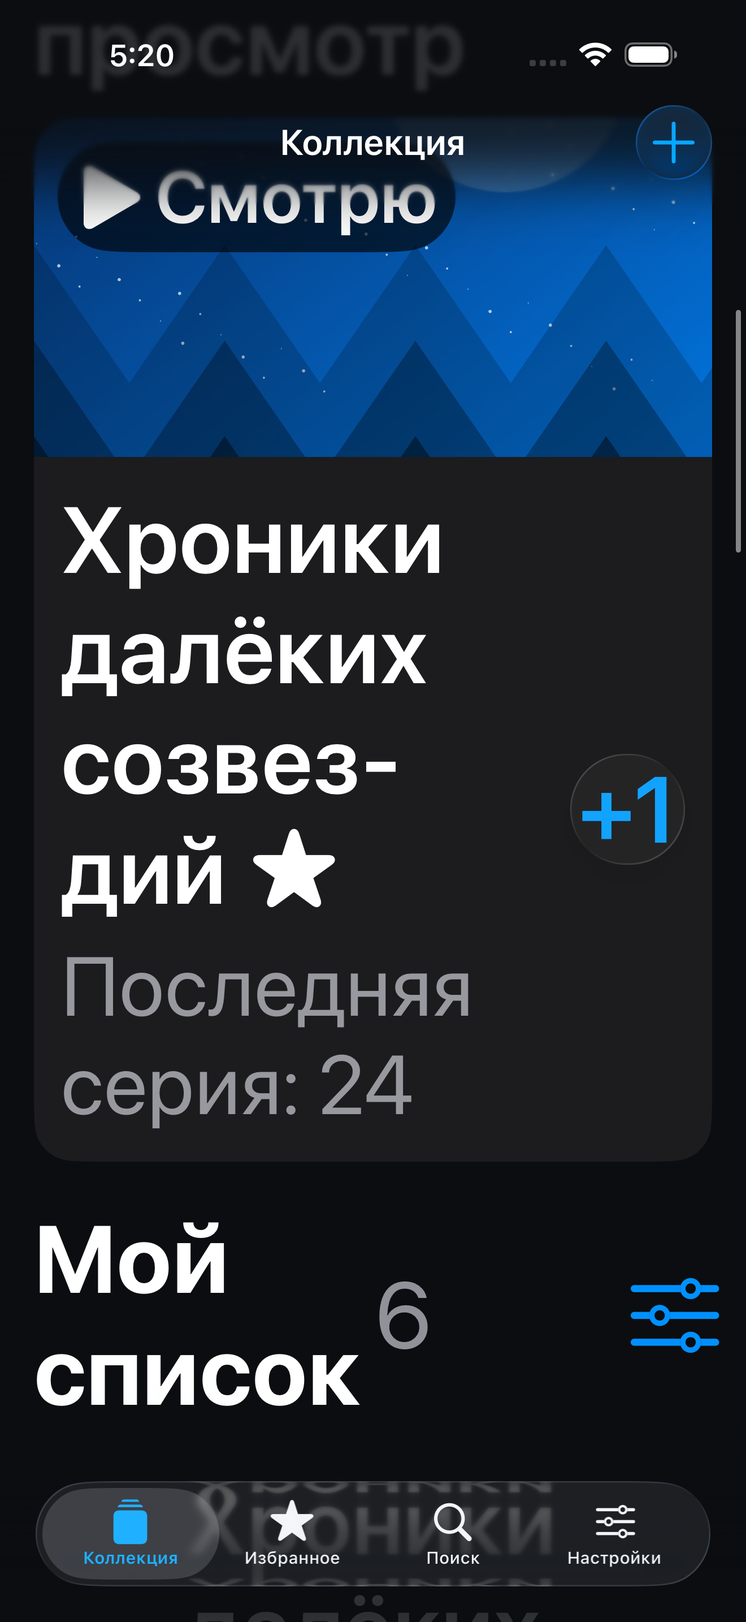
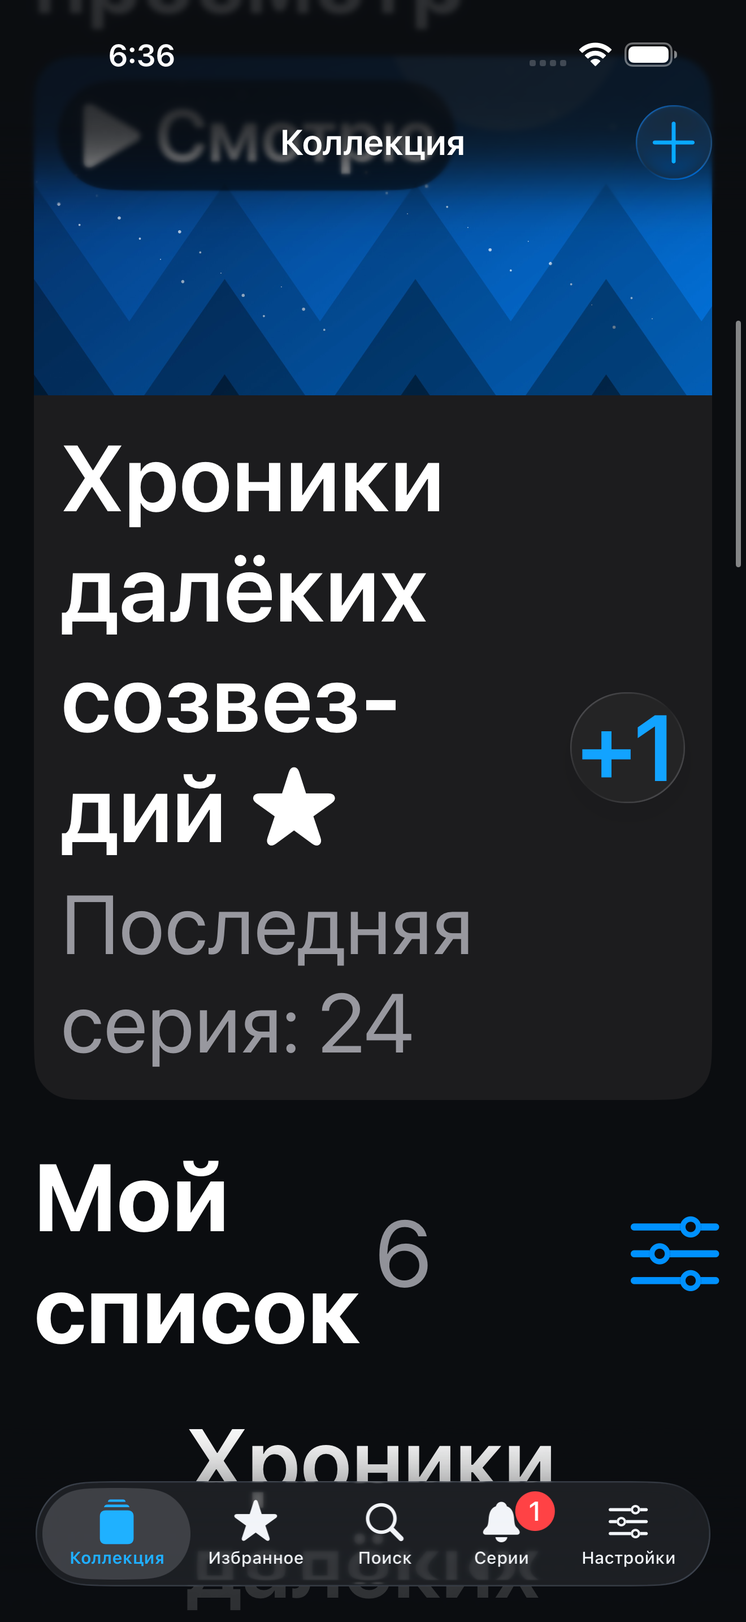
Document verified 1.1 release and simulator screenshots [skip ci]

diff --git a/docs/VERIFICATION_RU.md b/docs/VERIFICATION_RU.md
@@ -1,53 +1,63 @@
-# Проверка АниПолки 1.0
+# Проверка АниПолки 1.1
 
-Проверено 23 октября 2026 года. Исходный код сборки: `5a357bf2a78de1e36a8a76004fe476abee94f8a7`.
+Проверено 23 октября 2026. Код сборки: `a4109d55b6715e925ef74199bbdd0fe8daeccba6`. Последующий коммит документации и снимков не меняет код приложения.
 
-**Успешный запуск:** [GitHub Actions №39993648378](https://github.com/ZakitKH0000/anipolka-ios/actions/runs/39993648378). Оба задания завершились успешно.
+**Оба задания успешны:** [GitHub Actions №40003987419](https://github.com/ZakitKH0000/anipolka-ios/actions/runs/40003987419).
 
-## Готовый файл
+## IPA
 
-- `C:\dev\AniPolka\AniPolka-unsigned.ipa`, 535 892 байта.
[1 lines of base64/hex data omitted]
-- Xcode 26.6, iPhoneOS SDK 26.5, Release ARM64, минимальная iOS 17.0.
-- Версия 1.0.0, build 1, bundle ID `com.zakitkh.anipolka`.
-- Скрипт проверки запускался в CI и после скачивания на Windows. Проверены Info.plist, имя приложения, единственное целевое семейство iPhone, исполняемый Mach-O ARM64, LC_BUILD_VERSION с платформой iOS (не simulator), ресурсы и отсутствие сертификатов/provisioning-профилей в IPA. Контрольные суммы локального файла и артефакта совпали.
+- Версия 1.1.0, build 2, bundle ID `com.zakitkh.anipolka`.
+- Xcode 26.6, iPhoneOS SDK 26.5, Release ARM64, iOS 17+.
+- Локальный файл: `C:\dev\AniPolka\AniPolka-1.1.0-unsigned.ipa`, 765 338 байт. Общая копия `AniPolka-unsigned.ipa` обновлена; исходный IPA 1.0 сохранён отдельно.
[1 lines of base64/hex data omitted]
+- Проверены Info.plist, версия, семейство iPhone, ARM64 Mach-O, `LC_BUILD_VERSION` с платформой iOS (2), ресурсы, отсутствие сертификатов/provisioning-профилей, `UIBackgroundModes=fetch` и идентификатор фонового задания.
+- После скачивания на Windows проверены CRC всех файлов IPA и совпадение SHA-256 с артефактом CI. Пользователь выполняет личную подпись отдельно.
 
-## Пройденные автоматические проверки
+## 20 XCTest-проверок ядра — без ошибок
 
-**12 XCTest-проверок ShelfCore**, без ошибок:
+- Прогресс, немедленное сохранение, перезапуск, отмена без потери новых правок и фоновой обложки.
+- Ошибки записи/валидации не меняют коллекцию; полный цикл JSON-копии, изображения, настройки, порядок, объединение, импорт с сохранением опечаток и звёздочки.
+- Сетевые политики, сортировка, фильтры и границы счётчиков.
+- Автообложка только при одном точном совпадении; неоднозначные сезоны и опечатки не угадываются.
+- Публичные данные AniVibe: Kodik с отдельными сезонами/озвучками и дорожки AniVibe со сквозной нумерацией. Извлечение JSON без выполнения JavaScript.
+- Ссылки на выбранные плеер, серию и дорожку, включая Unicode и специальные символы.
+- Исходный номер без старых уведомлений, увеличение, отсутствие дублей, отказ от уменьшения счётчика и исчезнувшей дорожки. Просмотренный прогресс и имя сохраняются.
+- Чтение копии 1.0 без новых настроек и полный цикл новой копии с подписками, выпусками и результатами поиска обложек.
 
-- Увеличение последней серии, немедленное сохранение, перезапуск репозитория, отмена.
-- Старая отмена не затирает более новое изменение прогресса; отмена сохраняет загруженную в фоне обложку и независимые изменения записи.
-- Ошибки проверки данных и записи на диск не публикуют новое состояние и не повреждают старый файл.
-- Полный цикл JSON-копии с обложками, заметкой, ссылкой, избранным, необязательным сезоном, настройками и порядком.
-- Отказ от неизвестной версии, повторяющихся UUID и недопустимых данных.
-- Разбор строк, сохранение опечаток и звёздочки, обработка нераспознанного номера и UTF-8 BOM.
-- Фильтрация, поиск, сортировка, ручной порядок после перезапуска, объединение копий с сохранением текущего прогресса.
-- Все сочетания сетевой политики и верхняя граница номера серии.
+## 7 XCUITest-сценариев — без ошибок
 
-**4 XCUITest-проверки**, без ошибок, симулятор iPhone 17 Pro Max на Apple Silicon:
+Симулятор iPhone 17 Pro Max на Apple Silicon, 389 секунд непосредственно тестов:
 
-- Главная коллекция, +1, доступная отмена, сохранение увеличенного прогресса после перезапуска, отдельное избранное.
-- Ручное добавление записи и применение текстового импорта после проверки строк.
-- Настройки, смена на светлую тему, длинные названия в коллекции.
-- Самый крупный размер шрифта доступности. Значения настроек имеют полные переносимые подписи.
+1. Самый крупный размер шрифта доступности, длинные названия и настройки.
+2. Настоящий автоматический поиск и загрузка постера `Tunshi Xingkong` через приложение; сохранённая обложка и прежняя серия 24 доступны после перезапуска.
+3. +1, отмена, сохранение увеличенного прогресса после перезапуска, избранное.
+4. Настоящий поиск Kitsu, отдельные результаты дунхуа и выбор обложки в редакторе.
+5. Ручное добавление и текстовый импорт с предпросмотром.
+6. Вкладка новых выпусков → карточка произведения → источники → чтение настоящей публичной страницы AniVibe и получение вариантов озвучек.
+7. Настройки, светлая тема и длинные названия.
 
-**Живая проверка каталога:** публичный REST-запрос Shikimori нашёл китайский сериал `Tunshi Xingkong`, вернул отдельные варианты сезонов; обложка, связанная с выбранным ID, вернула HTTP 200 и данные изображения. Обязательного ключа нет. Это отдельная проверка API скриптом; полный сетевой сценарий через интерфейс приложения не входит в четыре UI-теста.
+В промежуточном прогоне выявлено несрабатывающее нажатие на вложенную ссылку карточки выпуска. Ссылка просмотра и переход к произведению разделены на отдельные строки; финальный сценарий перехода прошёл.
 
-## Снимки интерфейса
+**Живые API:** `scripts/check_catalog.py` отдельно проверил Shikimori и Kitsu на китайском сериале `Tunshi Xingkong`, отдельных сезонах и связанных изображениях: HTTP 200, непустые данные изображения, без обязательного ключа. Параметры `episode`, `translation`, `player` дополнительно проверены в ответе публичной страницы AniVibe. Воспроизведение и наличие всех промежуточных серий не утверждаются.
 
-[Артефакт снимков и xcresult](https://github.com/ZakitKH0000/anipolka-ios/actions/runs/39993648378/artifacts/12519845508). Оригинальные PNG сохранены в `docs/screenshots/` и доступны в архиве релиза.
+## Снимки
 
-Снимки получены из работающего приложения на симуляторе, а не из сгенерированного концепта. В тестах используются вымышленные названия и локальные пейзажи. Они не являются официальными обложками аниме. Личная коллекция пользователя в снимки, репозиторий и IPA не включена. При обычном запуске приложение начинает с пустой коллекции.
+[Артефакт снимков, журнала и xcresult](https://github.com/ZakitKH0000/anipolka-ios/actions/runs/40003987419/artifacts/12523522988). В `docs/screenshots/` и архиве релиза — 16 настоящих снимков приложения на симуляторе.
 
-Визуально проверены тёмная и светлая коллекции, настройки, перенос длинных названий, предпросмотр импорта и крупные шрифты. Обнаруженное обрезание выбранных значений настроек при самом крупном шрифте исправлено и проверено повторным прогоном.
+Визуально проверены новые экраны источников и выпусков, автоматическая и выбранная обложки, тёмная/светлая коллекция, настройки и крупный шрифт. Тесты используют вымышленные записи и локальные иллюстрации, отдельную контрольную запись с настоящим постером и публичную страницу источника. Тестовая серия 27 в демонстрационном входящем списке вымышлена. Личная коллекция в тесты, репозиторий, опубликованные снимки и IPA не входит.
 
-## Что требует проверки после личной подписи
+## Физический iPhone
 
-На физический iPhone приложение ещё не устанавливалось. Подпись и установку пользователь выполняет своим инструментом. Не проверены физический тактильный отклик, реальные переходы Wi-Fi/сотовой сети, системный PhotosPicker с личными фото/iCloud и конкретные провайдеры приложения Файлы.
+Пользователь установил и подтвердил работу версии 1.0. При подготовке 1.1 подключён iPhone 17 Pro Max с iOS 27.0.1 через USB: установленная АниПолка успешно запущена, получен настоящий снимок экрана. Приватный снимок сохранён в игнорируемой папке `local-private/` и не опубликован.
 
-Логика резервной копии и отката ошибок проверена XCTest, но системные диалоги экспорта/выбора копии не автоматизированы XCUITest. Политика сети проверена логически; запрет cellular в URLSession/URLRequest и отмена сессии реализованы в приложении. Переключение реального мобильного подключения нужно подтвердить на iPhone.
+Версия 1.1 требует подписи и установки поверх существующего приложения тем же способом с сохранением bundle ID. На телефоне пока не проверены новые фоновые вызовы iOS, доставка/нажатие на локальное уведомление, смена Wi-Fi/сотовой сети и PhotosPicker с личными фото/iCloud. Их нельзя считать подтверждёнными по тестам симулятора. USB-инструмент позволяет запуск и снимки; автоматизация нажатий на телефоне не настроена.
 
-Системные Reduce Transparency и Increase Contrast учтены кодом контролов, пользовательской анимации нет; отдельного автоматического прогона этих двух системных переключателей не было. Сортировка и сохранение выбранного вида проверены в ядре. Сетка реализована, но отдельного UI-теста и снимка сетки не было.
+## Ограничения
 
-Охват дунхуа и переводных названий зависит от каталога. Если нужного произведения нет, остаются ручное добавление, привычное название и собственная обложка. В офлайн-копию входят только уже загруженные изображения.
+- Без сервера iOS назначает время фоновой проверки; мгновенные уведомления не гарантируются. Принудительное закрытие и ограничения системы могут остановить проверки до открытия.
+- VK в 1.1 не подключён. Публичные каналы возвращали повторные перенаправления; для официальной интеграции нужны зарегистрированное приложение и разрешённый API-доступ.
+- Диалоги экспорта/восстановления Файлов и личные провайдеры хранения отдельно не автоматизированы. Логика копии проверена XCTest.
+- Reduce Transparency и Increase Contrast учтены кодом; отдельного прогона этих переключателей не было. Отдельного UI-теста сетки нет.
+- Изменение разметки AniVibe может нарушить проверку; предыдущая отметка и просмотренный прогресс сохраняются. Охват обложек и переводных названий зависит от каталогов.
+
+[Источники](SOURCES_RU.md) · [Установка и включение уведомлений](../INSTALL_RU.md)

diff --git a/README.md b/README.md
@@ -4,12 +4,18 @@
 
 Разработчик — **Закир Халилов**. Создано для личного использования.
 
-**[Готовые версии IPA](https://github.com/ZakitKH0000/anipolka-ios/releases)** · [Установка с Windows](INSTALL_RU.md) · [Результаты проверок](docs/VERIFICATION_RU.md) · [Источники и уведомления 1.1](docs/SOURCES_RU.md)
+**[Скачать IPA 1.1](https://github.com/ZakitKH0000/anipolka-ios/releases/tag/v1.1.0)** · [Установка с Windows](INSTALL_RU.md) · [Результаты проверок](docs/VERIFICATION_RU.md) · [Источники и уведомления](docs/SOURCES_RU.md)
 
 <p>
   <img src="docs/screenshots/collection-dark.png" width="240" alt="Тёмная коллекция на симуляторе">
   <img src="docs/screenshots/settings-dark.png" width="240" alt="Настройки АниПолки">
   <img src="docs/screenshots/collection-light.png" width="240" alt="Светлая коллекция на симуляторе">
+</p>
+
+<p>
+  <img src="docs/screenshots/automatic-donghua-cover.png" width="240" alt="Автоматически найденная и сохранённая обложка дунхуа">
+  <img src="docs/screenshots/release-inbox.png" width="240" alt="Новые серии выбранных источников">
+  <img src="docs/screenshots/episode-sources.png" width="240" alt="Подписка на конкретную озвучку">
 </p>
 
 Реальные снимки симулятора с тестовыми названиями и локальными иллюстрациями. При первом обычном запуске коллекция пустая. Официальные обложки загружаются из каталогов; личная коллекция не включена в сборку.
